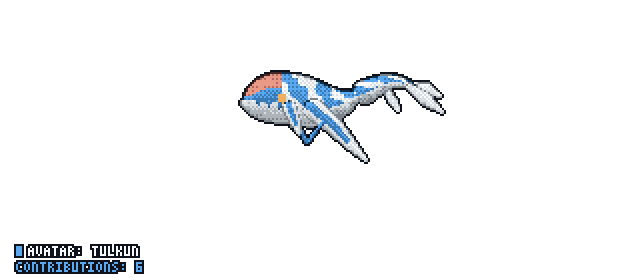
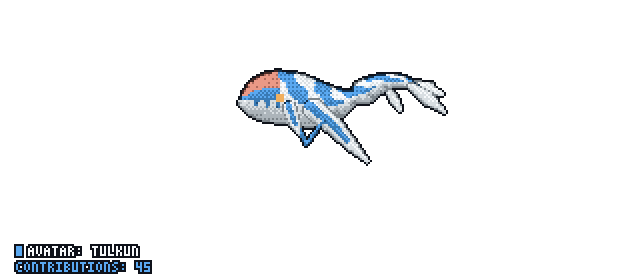
docs: regenerate stage showcase GIFs and share cards for new 1-1000+ thresholds

diff --git a/docs/canon-bull/preview.html b/docs/canon-bull/preview.html
@@ -16,7 +16,7 @@
 </style>
 </head>
 <body>
-<header class="dark"><h1>@demo-user — Adult Male Bull (Hooked Hammer-Crest) (145 commits)</h1></header>
+<header class="dark"><h1>@demo-user — Adult Male Bull (Hooked Hammer-Crest) (1150 commits)</h1></header>
 <section class="dark">
 <h2>GitHub Dark Mode</h2>
 <div class="images">

diff --git a/docs/stage5-bull/preview.html b/docs/stage5-bull/preview.html
@@ -16,7 +16,7 @@
 </style>
 </head>
 <body>
-<header class="dark"><h1>@demo-user — Adult Male Bull (Hooked Hammer-Crest) (145 commits)</h1></header>
+<header class="dark"><h1>@demo-user — Adult Male Bull (Hooked Hammer-Crest) (1150 commits)</h1></header>
 <section class="dark">
 <h2>GitHub Dark Mode</h2>
 <div class="images">

diff --git a/docs/view-dive/preview.html b/docs/view-dive/preview.html
@@ -16,7 +16,7 @@
 </style>
 </head>
 <body>
-<header class="dark"><h1>@demo-user — Adult Male Bull (Hooked Hammer-Crest) (145 commits)</h1></header>
+<header class="dark"><h1>@demo-user — Adult Male Bull (Hooked Hammer-Crest) (1150 commits)</h1></header>
 <section class="dark">
 <h2>GitHub Dark Mode</h2>
 <div class="images">

diff --git a/docs/view-top/preview.html b/docs/view-top/preview.html
@@ -16,7 +16,7 @@
 </style>
 </head>
 <body>
-<header class="dark"><h1>@demo-user — Adult Male Bull (Hooked Hammer-Crest) (145 commits)</h1></header>
+<header class="dark"><h1>@demo-user — Adult Male Bull (Hooked Hammer-Crest) (1150 commits)</h1></header>
 <section class="dark">
 <h2>GitHub Dark Mode</h2>
 <div class="images">

diff --git a/docs/stage4-female/preview.html b/docs/stage4-female/preview.html
@@ -16,7 +16,7 @@
 </style>
 </head>
 <body>
-<header class="dark"><h1>@demo-user — Adult Female (Sloped Sensor Crest) (95 commits)</h1></header>
+<header class="dark"><h1>@demo-user — Adult Female (Sloped Sensor Crest) (720 commits)</h1></header>
 <section class="dark">
 <h2>GitHub Dark Mode</h2>
 <div class="images">

diff --git a/docs/stage2-yearling/preview.html b/docs/stage2-yearling/preview.html
@@ -16,7 +16,7 @@
 </style>
 </head>
 <body>
-<header class="dark"><h1>@demo-user — Yearling Calf (Kuru Active) (24 commits)</h1></header>
+<header class="dark"><h1>@demo-user — Yearling Calf (Kuru Active) (160 commits)</h1></header>
 <section class="dark">
 <h2>GitHub Dark Mode</h2>
 <div class="images">

diff --git a/docs/stage3-adolescent/preview.html b/docs/stage3-adolescent/preview.html
@@ -16,7 +16,7 @@
 </style>
 </head>
 <body>
-<header class="dark"><h1>@demo-user — Adolescent Tulkun (58 commits)</h1></header>
+<header class="dark"><h1>@demo-user — Adolescent Tulkun (360 commits)</h1></header>
 <section class="dark">
 <h2>GitHub Dark Mode</h2>
 <div class="images">

diff --git a/docs/stage1-calf/preview.html b/docs/stage1-calf/preview.html
@@ -16,7 +16,7 @@
 </style>
 </head>
 <body>
-<header class="dark"><h1>@demo-user — Baby Tulkun Calf (6 commits)</h1></header>
+<header class="dark"><h1>@demo-user — Baby Tulkun Calf (45 commits)</h1></header>
 <section class="dark">
 <h2>GitHub Dark Mode</h2>
 <div class="images">
